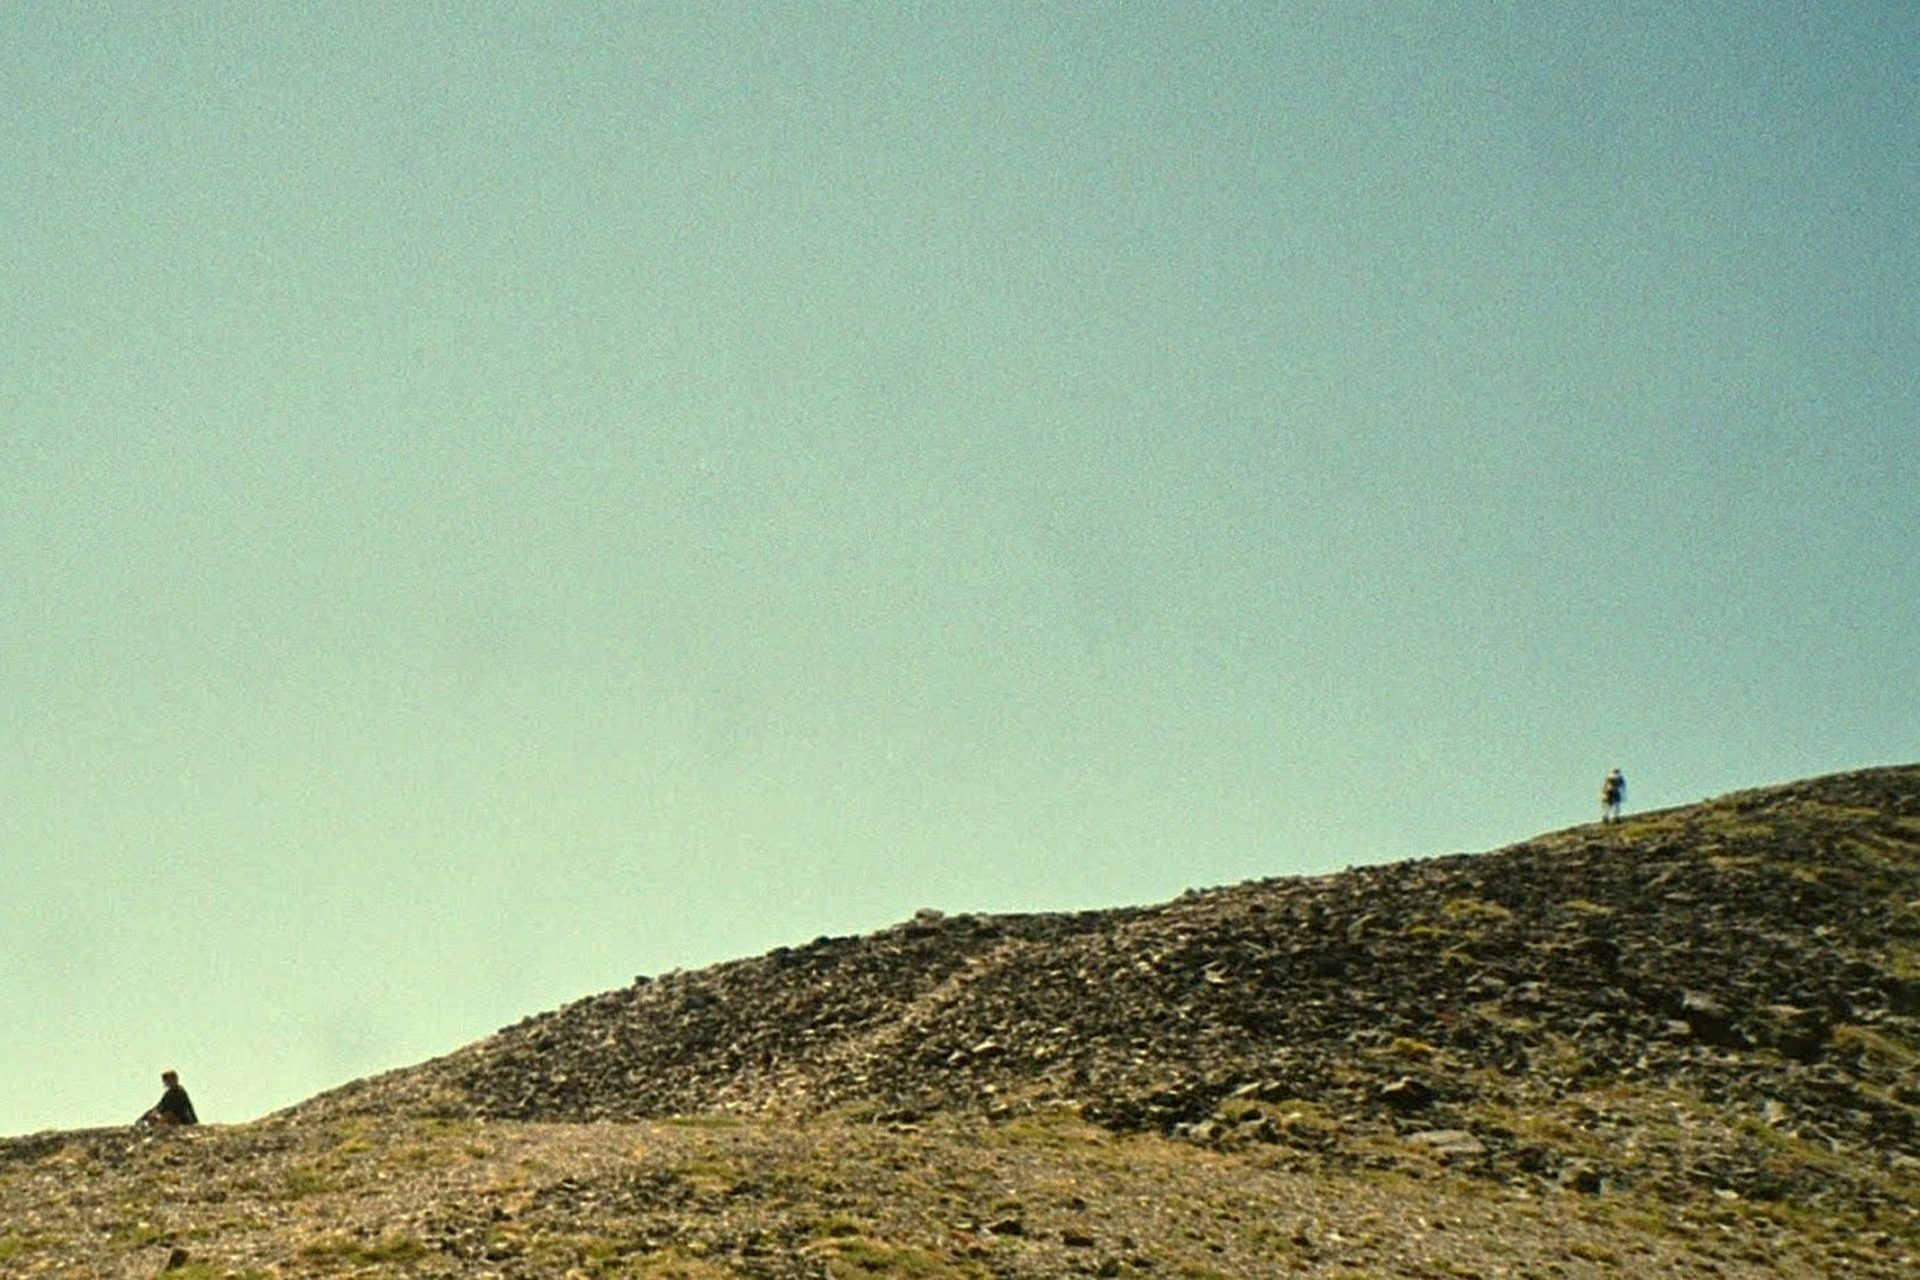
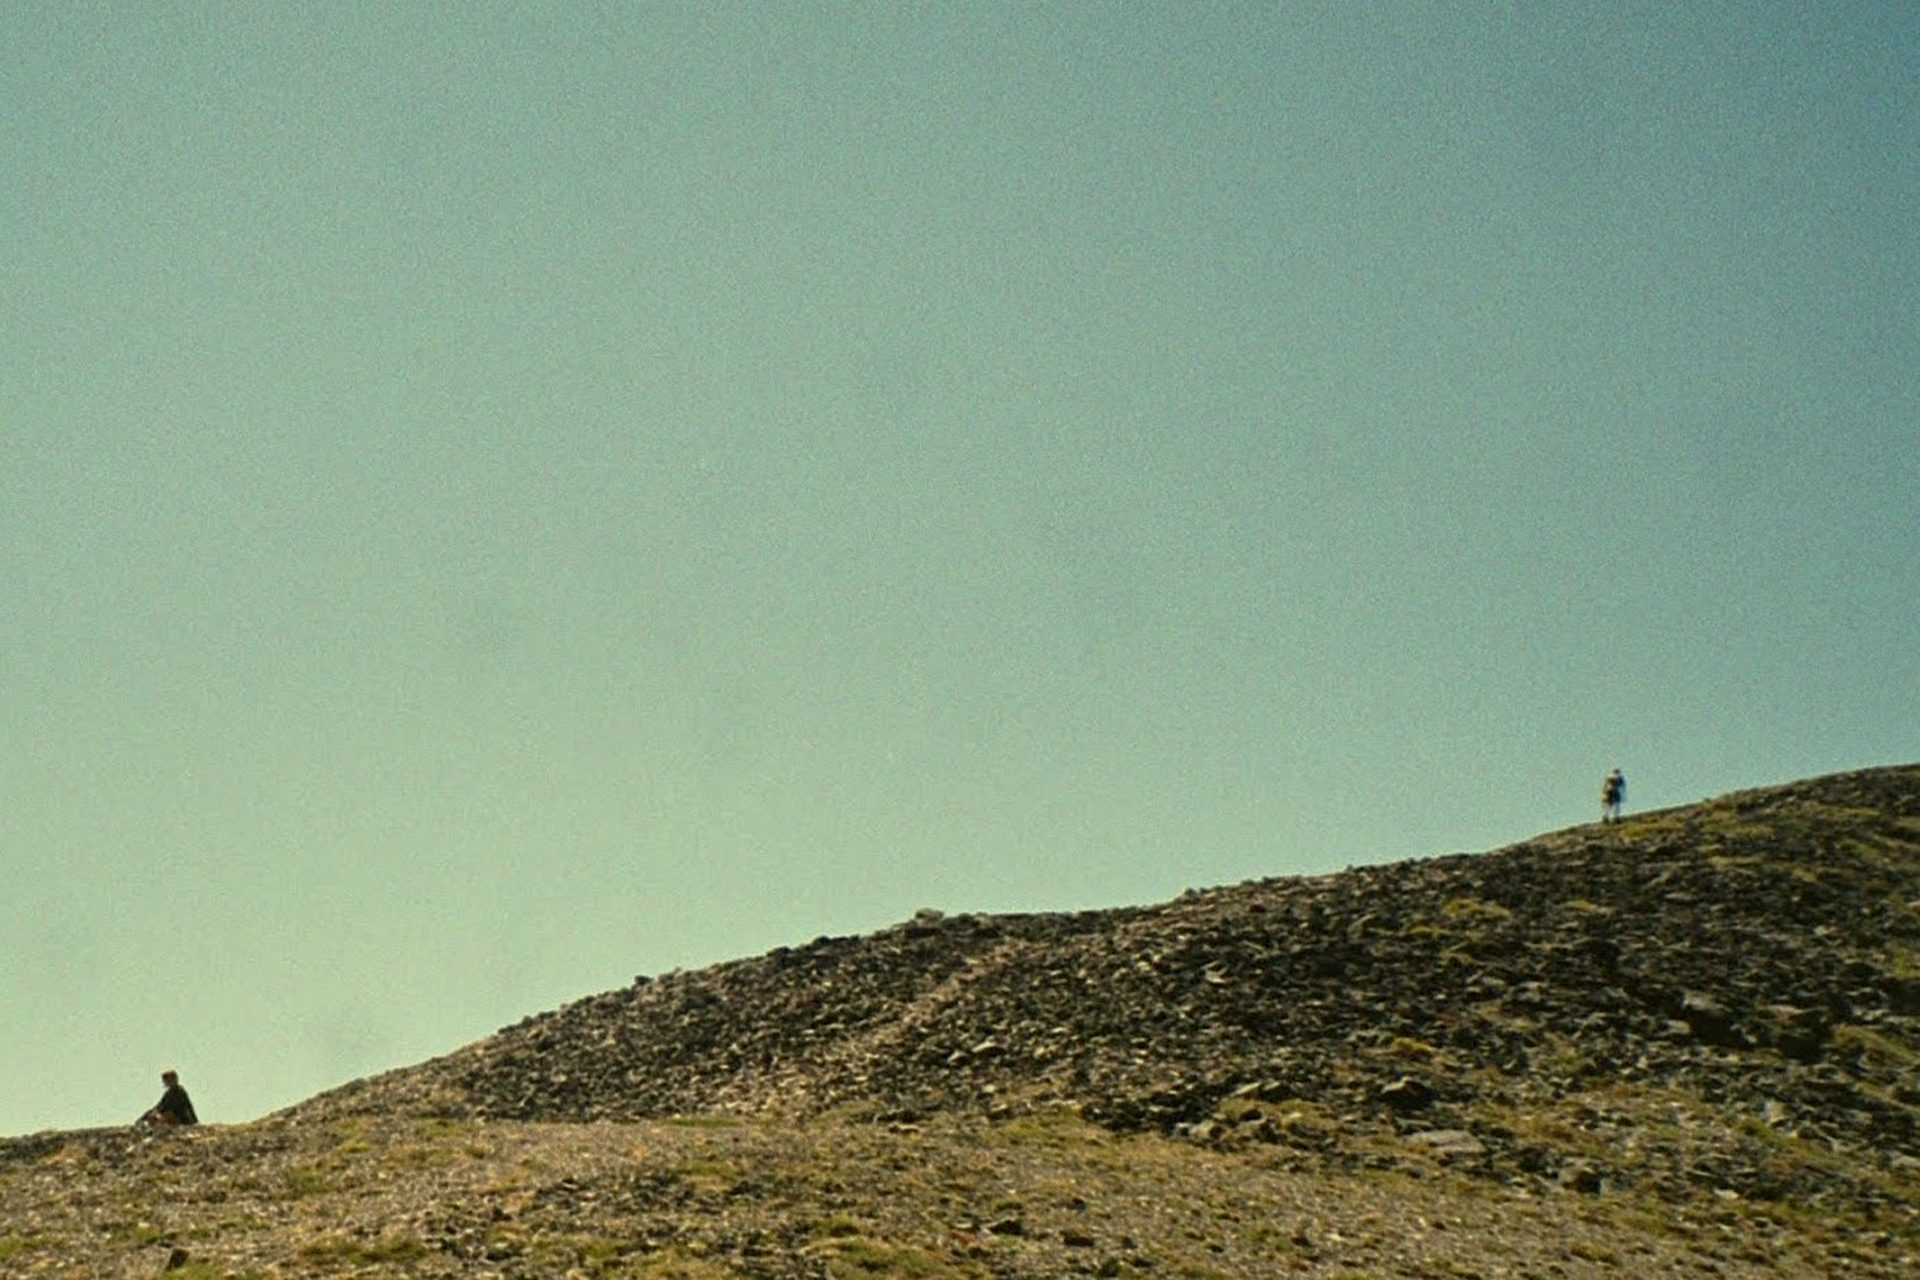
Dim the two-people version a little; keep zoom off
Backgrounds baked 12% darker (cache-busted with ?v=2), loading colour and haze sheet dimmed
to match. Zoom stays off and the look/zoom storage keys reset so stored choices can't turn it
back on. Phone home caption moves into the lighter mid sky, and inner-page headers get the
faint veil on phones, so every text run still passes after dimming (4.5+ normal text, 4.09+
on the large inner name).

diff --git a/src/index.css b/src/index.css
@@ -22,7 +22,7 @@
   color-scheme: light;
   --ink: #0b1210;
   --paper: #e2e5db;
-  --sky: #a9cbb0; /* this photo's mid sky: the flat colour shown while it loads */
+  --sky: #94b29b; /* this photo's mid sky (dimmed 12%): the flat colour shown while it loads */
 
   /* Semantic tokens (post bodies and the globe read these). Every text pair >= 4.5:1 on the
      sheet; see DECISIONS.md for the numbers. */
@@ -188,7 +188,12 @@ html[data-page='home'] body { overflow: hidden; }
   pointer-events: none;
   background: radial-gradient(closest-side, rgba(217, 221, 206, 0.22), rgba(217, 221, 206, 0.16) 55%, rgba(217, 221, 206, 0));
 }
-/* 2ppl photo: the sky is bright enough that phones need no veil (ink measures 7:1+). */
+/* 2ppl photo, dimmed 12%: the home caption needs no veil (it sits in the lighter mid sky), but
+   the inner pages' name and links sit at the very top of the tall crop, its darkest teal (3.4:1
+   bare at 390x844), so on phones and portrait screens they get the faint haze. */
+@media (max-width: 40rem), (max-aspect-ratio: 4/5) {
+  .band-head.veil::before { content: ''; }
+}
 
 /* ---------- home: the caption ---------- */
 
@@ -249,7 +254,7 @@ html[data-page='home'] body { overflow: hidden; }
   /* 2ppl photo: its tall crop's sky is light all the way up, so the caption sits high in the
      open sky, well clear of the standing hiker on the ridge (about 58% down). */
   .caption {
-    top: clamp(3rem, 12svh, 6.5rem);
+    top: clamp(9rem, 25svh, 14rem);
     bottom: auto;
     max-width: calc(100vw - 2.5rem);
   }
@@ -649,11 +654,11 @@ details#now-bonus summary { cursor: pointer; color: var(--link); }
 
 /* ---- haze: the sky's own grey-green, fine grain, the photo faintly through (90%) ---- */
 [data-look='haze'] .sheet {
-  background-color: rgba(200, 222, 206, 0.9); /* this photo's mint haze */
+  background-color: rgba(184, 204, 190, 0.9); /* this photo's mint haze, dimmed a touch */
   background-image: var(--tex-grain);
   background-size: 180px 180px;
-  --bg: #c8dece;
-  --surface: #d3e6d7;
+  --bg: #b8ccbe;
+  --surface: #c3d5c8;
   --text: #121a18;
   --muted: #33403b;     /* 5.5:1 on the darkest blend (scree behind, about #b6bbac) */
   --link: #1b3633;

diff --git a/src/components/Backdrop.jsx b/src/components/Backdrop.jsx
@@ -30,13 +30,13 @@ export default function Backdrop({ mode }) {
       <picture>
         <source
           media="(max-aspect-ratio: 4/5)"
-          srcSet="/bg4/twoppl-tall-933.jpg 933w, /bg4/twoppl-tall-1170.jpg 1170w"
+          srcSet="/bg4/twoppl-tall-933.jpg?v=2 933w, /bg4/twoppl-tall-1170.jpg?v=2 1170w"
           sizes="100vw"
         />
         <img
           className="backdrop-photo"
-          src="/bg4/twoppl-wide-1375.jpg"
-          srcSet="/bg4/twoppl-wide-800.jpg 800w, /bg4/twoppl-wide-1375.jpg 1375w, /bg4/twoppl-wide-1920.jpg 1920w"
+          src="/bg4/twoppl-wide-1375.jpg?v=2"
+          srcSet="/bg4/twoppl-wide-800.jpg?v=2 800w, /bg4/twoppl-wide-1375.jpg?v=2 1375w, /bg4/twoppl-wide-1920.jpg?v=2 1920w"
           sizes="100vw"
           alt=""
           fetchpriority="high"

diff --git a/src/lib/look.js b/src/lib/look.js
@@ -17,8 +17,9 @@ export const ZOOMS = [
 ];
 
 // v2: haze became the default (Jason's pick); the new key drops any earlier stored choice.
-const KEY_LOOK = 'jc-look-v2';
-const KEY_ZOOM = 'jc-zoom';
+const KEY_LOOK = 'jc-look-v3';
+// v2: zoom is off by default (Jason's call); the new key drops any stored 10% choice.
+const KEY_ZOOM = 'jc-zoom-v2';
 const read = (k) => { try { return localStorage.getItem(k); } catch { return null; } };
 const write = (k, v) => { try { localStorage.setItem(k, v); } catch { /* private mode */ } };
 

diff --git a/scripts/make-2ppl-bg.py b/scripts/make-2ppl-bg.py
@@ -9,7 +9,11 @@ scan around the standing hiker and given his grade, learned per channel from the
 """
 import numpy as np
 from pathlib import Path
-from PIL import Image, ImageOps
+from PIL import Image, ImageEnhance, ImageOps
+
+# Jason: "dim everything by a little, it's a bit too bright." Every output is darkened by this
+# factor (1.0 = his original brightness).
+DIM = 0.88
 
 DL = Path.home() / "Downloads"
 OUT = Path(__file__).resolve().parent.parent / "public" / "bg4"
@@ -19,7 +23,7 @@ jason = Image.open(DL / "background_screen saver_NOLS_2ppl_cropped.jpg").convert
 scan = ImageOps.mirror(Image.open(DL / "NOLS_I_THINK_I_CAN.JPG").convert("RGB"))
 
 def save(im, name, w=None):
-    x = im.copy()
+    x = ImageEnhance.Brightness(im).enhance(DIM)
     if w: x = x.resize((w, round(w * im.size[1] / im.size[0])), Image.LANCZOS)
     x.save(OUT / name, quality=82, optimize=True, progressive=True)
 

diff --git a/DECISIONS.md b/DECISIONS.md
@@ -218,3 +218,20 @@ Jason asked for a version over `background_screen saver_NOLS_2ppl_cropped.jpg` (
 
   The phone veil is gone.
 - **Phone caption:** it moved back to the top of the sky (`top: clamp(3rem, 12svh, 6.5rem)`). The low placement was only needed for the old photo's dark upper sky, and here it sat on top of the standing hiker.
+- **Dimmed a touch (Jason: "a bit too bright").**
+  - Every bg4 copy is baked 12% darker (`DIM = 0.88` in `scripts/make-2ppl-bg.py`), and the URLs carry `?v=2` so browsers fetch the new files.
+  - The loading colour is now #94b29b, and the haze sheet rgba(184,204,190,0.9) (--bg #b8ccbe).
+  - Zoom stays off. The storage keys moved to `jc-look-v3` / `jc-zoom-v2`, so an earlier stored 10% or other look doesn't override the defaults (haze, no zoom).
+  - The phone home caption moved down to `top: clamp(9rem, 25svh, 14rem)`, into the lighter mid sky; it still ends ~90px above the standing hiker.
+  - Inner pages' name and links get the faint haze veil on phones and portrait screens, where they sit in the tall crop's darkest teal.
+  - **Contrast after dimming (worst pixel):**
+
+    | Page | Viewport | Worst pixel | Note |
+    |---|---|---|---|
+    | Home | 1440 | 5.78 | |
+    | Home | 768 | 4.61 | |
+    | Home | 360 / 390 / 430 | 4.52–4.56 | |
+    | Inner | 1440 | 5.12 | |
+    | Inner | 768 | 4.80 | |
+    | Inner | 390 | 4.83 (links); 4.09 (the 26px+ name, large text, needs 3:1) | |
+    | Haze sheet text | | 5.7 or better | on any part of the photo behind it |
